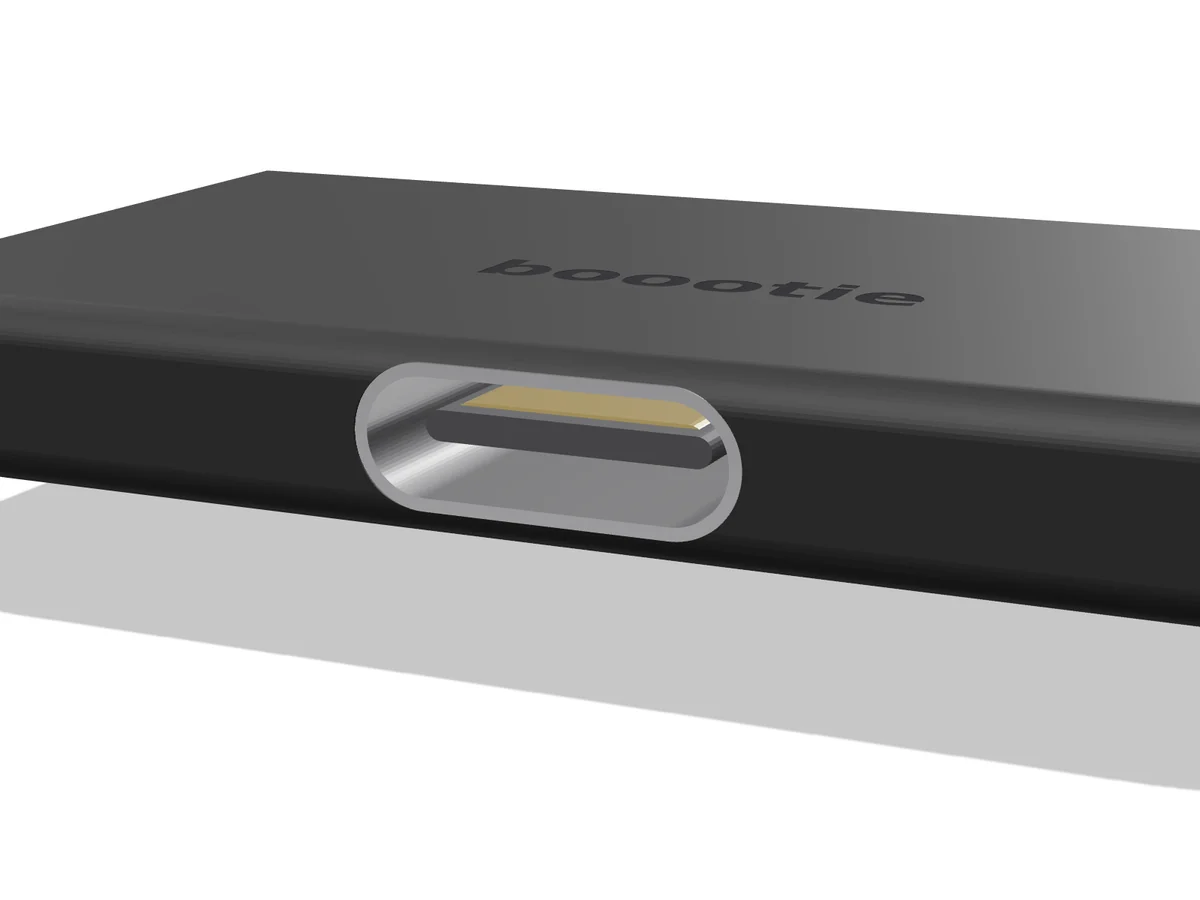
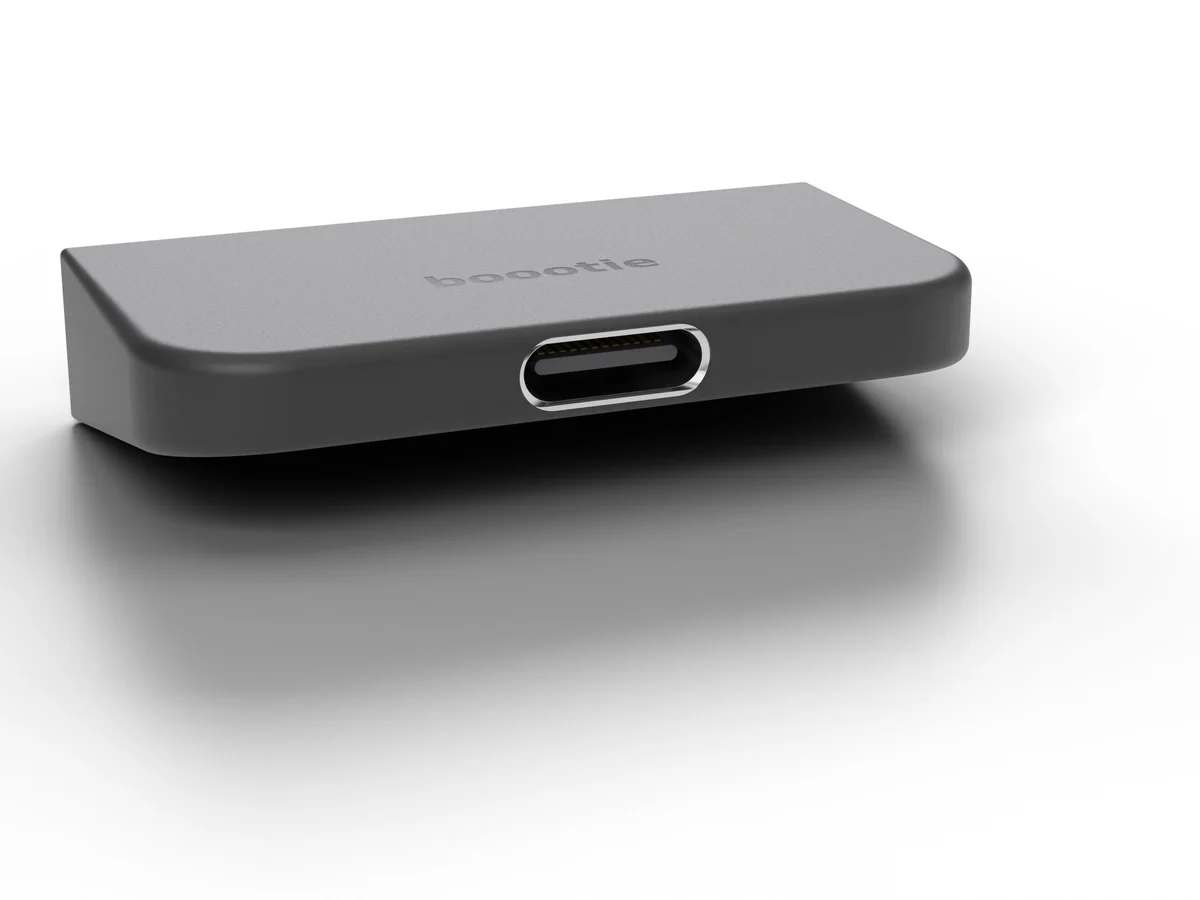
Higher fidelity render for the second USB-C port
Claude-Session: https://claude.ai/code/session_01QvQbkobB7BTY5XP6kQVHjP

diff --git a/src/index.html b/src/index.html
@@ -168,7 +168,7 @@
         <p class="annot hand bottom-4 left-4">{{> arrow-label}}<span class="label-pill">sits flush with the screen</span></p>
       </figure>
       <figure class="figure glass glass-flat">
-        <img src="/img/fig-port.webp" srcset="/img/fig-port-600.webp 600w, /img/fig-port.webp 1200w" sizes="(min-width: 768px) 560px, 100vw" width="1200" height="900" loading="lazy" decoding="async" alt="the far edge of boootie, with its second USB-C port for pass-through charging">
+        <img src="/img/fig-port.webp?v=2" srcset="/img/fig-port-600.webp?v=2 600w, /img/fig-port.webp?v=2 1200w" sizes="(min-width: 768px) 560px, 100vw" width="1200" height="900" loading="lazy" decoding="async" alt="the far edge of boootie, with its second USB-C port for pass-through charging">
         <p class="annot hand left-4 top-4"><span class="label-pill">second USB-C port</span></p>
         <p class="annot hand bottom-4 right-4">{{> arrow-label}}<span class="label-pill">your charger plugs in here</span></p>
       </figure>
